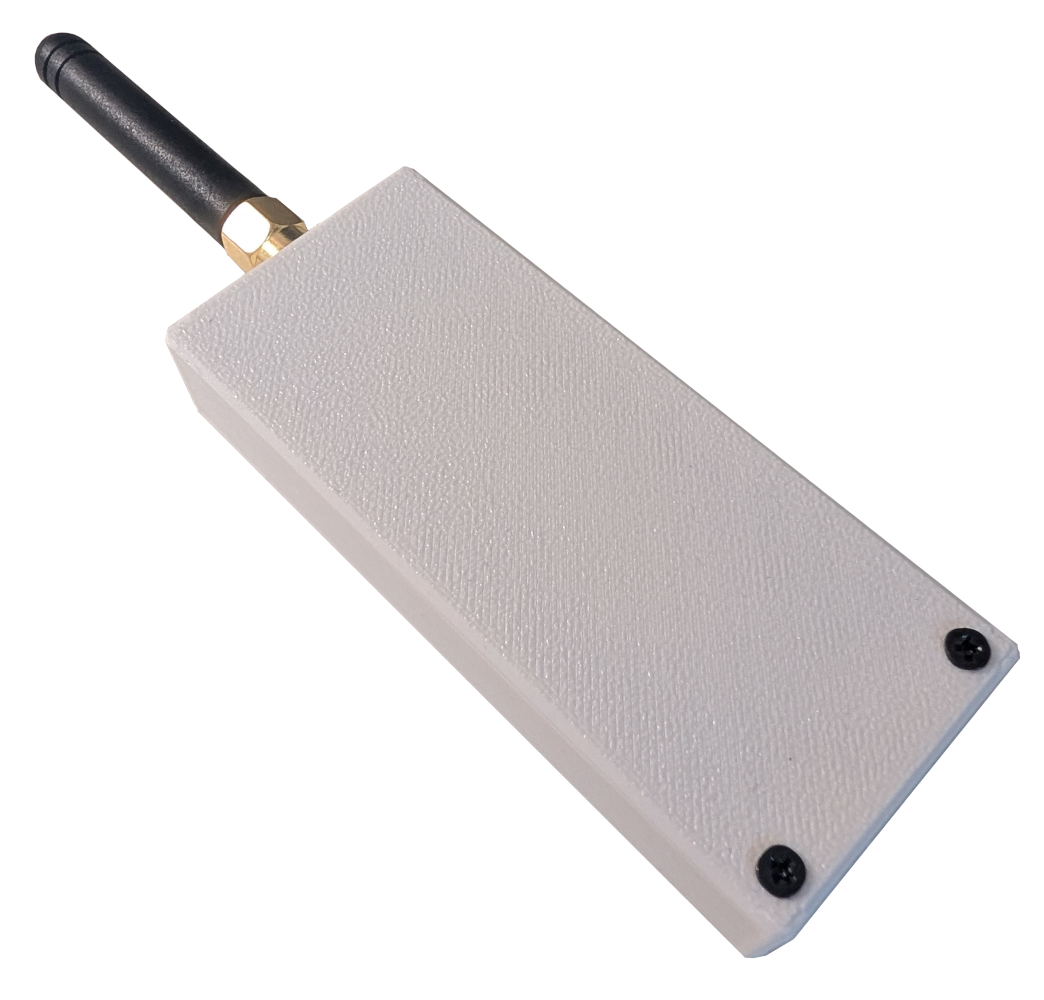
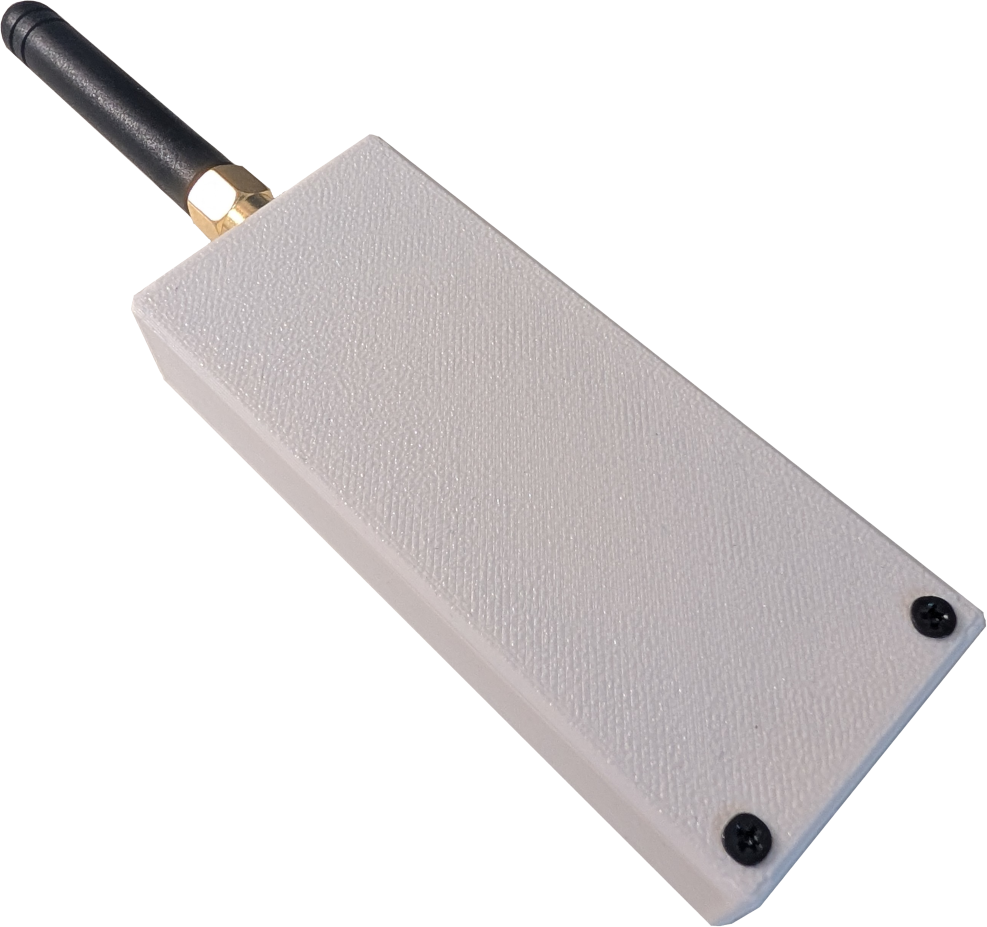
Added PCB in case image.

diff --git a/assembly/design-a/Readme.md b/assembly/design-a/Readme.md
@@ -3,7 +3,7 @@
 This is a simple designed based around a prototyping board, a NodeMcu Mini D1 Module (with Esp8266, but Esp32 should also work) and a CC1101 wireless module.
 | Fully assembled | PCB in case |
 |:-:|:-:|
-| ![Fully assembled](assets/fully-assembled.png) | TODO |
+| ![Fully assembled](assets/fully-assembled.png) | ![PCB in case](assets/pcb-in-case.jpg) |
 
 ## BOM
 
